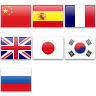
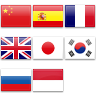
Add Indonesian flag

Changed region(s): [[0.3125, 0.7188, 0.6875, 0.9688]]

diff --git a/components/HeaderNavLang.vue b/components/HeaderNavLang.vue
@@ -25,7 +25,8 @@ export default {
         { iso: 'ko', class: 'flag-ko', url: 'https://ko.nuxtjs.org' },
         { iso: 'ru', class: 'flag-ru', url: 'https://ru.nuxtjs.org' },
         { iso: 'zh', class: 'flag-zh', url: 'https://zh.nuxtjs.org' },
-        { iso: 'fr', class: 'flag-fr', url: 'https://fr.nuxtjs.org' }
+        { iso: 'fr', class: 'flag-fr', url: 'https://fr.nuxtjs.org' },
+        { iso: 'id', class: 'flag-id', url: 'https://id.nuxtjs.org' }
       ]
     }
   }

diff --git a/assets/scss/icons/_flags.scss b/assets/scss/icons/_flags.scss
@@ -36,4 +36,8 @@
   {
     background-position: -64px 0;
   }
+  &-id
+  {
+    background-position: -32px -64px;
+  }
 }
